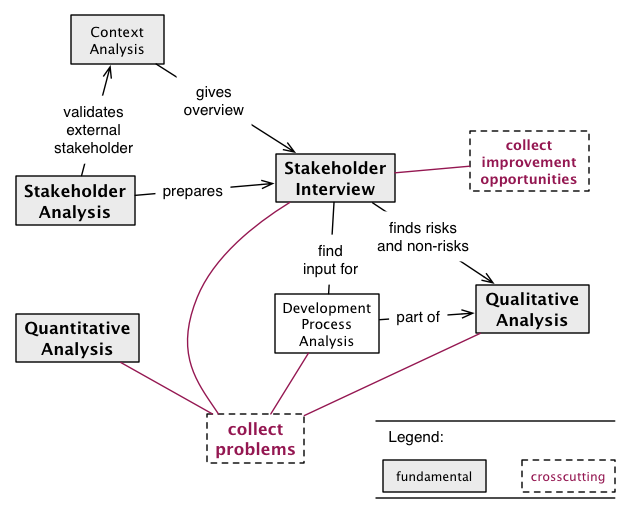
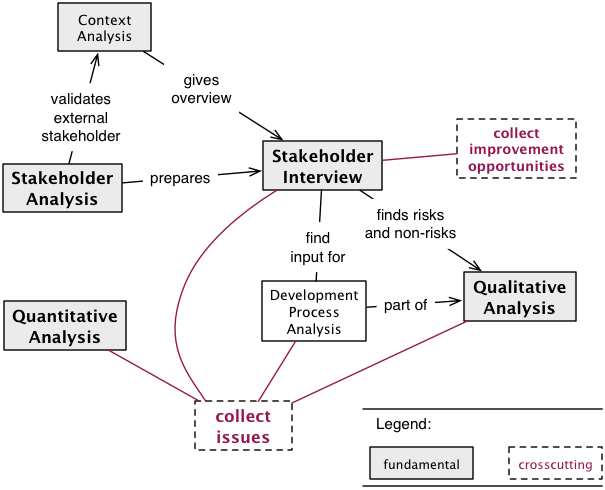
corrected analyze-pattern diagrams + imageMaps

diff --git a/src/main/asciidoc/patterns/analyze/analyze-patterns-conceptmap/analyze-patterns-conceptmap.html b/src/main/asciidoc/patterns/analyze/analyze-patterns-conceptmap/analyze-patterns-conceptmap.html
@@ -1,20 +1,22 @@
 <map name="GraffleExport">
-	<area shape=rect coords="105,702,187,742" href="#Instrument-System">
-	<area shape=rect coords="209,603,311,642" href="#Infrastructure-Analysis">
-	<area shape=rect coords="306,332,411,391" href="#Development-Process-Analysis">
-	<area shape=rect coords="40,815,138,864" href="#Static-Code-Analysis">
-	<area shape=rect coords="371,702,461,751" href="#Software-Archeology">
-	<area shape=rect coords="462,38,566,77" href="#Questionnaire">
-	<area shape=rect coords="28,307,163,355" href="#Quantitative-Analysis">
-	<area shape=rect coords="662,345,769,393" href="#Requirements-Analysis">
-	<area shape=rect coords="342,154,461,202" href="#Stakeholder-Interview">
-	<area shape=rect coords="53,179,172,228" href="#Stakeholde-Analysis">
-	<area shape=rect coords="78,506,163,552" href="#Runtime-Analysis">
-	<area shape=rect coords="556,265,677,314" href="#Documentation-Analysis">
-	<area shape=rect coords="157,446,223,485" href="#Data-Analysis">
-	<area shape=rect coords="467,575,580,624" href="#Issue-Tracker-Analysis">
-	<area shape=rect coords="137,15,230,63" href="#Context-Analysis">
-	<area shape=rect coords="667,539,742,578" href="#ATAM">
-	<area shape=rect coords="497,399,609,447" href="#Qualitative-Analysis">
+	<area shape=rect coords="93,690,175,729" href="#Instrument-System">
+	<area shape=rect coords="196,590,299,629" href="#Infrastructure-Analysis">
+	<area shape=rect coords="294,319,398,379" href="#Development-Process-Analysis">
+	<area shape=rect coords="610,97,729,156" href="#Collect-Improvement-Opportunities">
+	<area shape=rect coords="305,508,402,557" href="#Collect-Issues">
+	<area shape=rect coords="28,803,125,852" href="#Static-Code-Analysis">
+	<area shape=rect coords="358,690,449,739" href="#Software-Archeology">
+	<area shape=rect coords="449,25,553,64" href="#Questionnaire">
+	<area shape=rect coords="15,294,150,343" href="#Quantitative-Analysis">
+	<area shape=rect coords="649,332,756,381" href="#Requirements-Analysis">
+	<area shape=rect coords="330,141,449,190" href="#Stakeholder-Interview">
+	<area shape=rect coords="40,167,159,215" href="#Stakeholde-Analysis">
+	<area shape=rect coords="66,494,150,539" href="#Runtime-Analysis">
+	<area shape=rect coords="543,253,664,301" href="#Documentation-Analysis">
+	<area shape=rect coords="145,433,210,472" href="#Data-Analysis">
+	<area shape=rect coords="455,562,567,611" href="#Issue-Tracker-Analysis">
+	<area shape=rect coords="124,2,218,51" href="#Context-Analysis">
+	<area shape=rect coords="654,526,729,565" href="#ATAM">
+	<area shape=rect coords="484,386,597,435" href="#Qualitative-Analysis">
 </map>
-<img border=0 src="file:///Users/gstarke/projects/aim42/aim42-guide/src/main/asciidoc/patterns/analyze/analyze-patterns-conceptmap/analyze-patterns-conceptmap.png" usemap="#GraffleExport">
+<img border=0 src="file:///Users/gernotstarke/projects/aim42/src/main/asciidoc/patterns/analyze/analyze-patterns-conceptmap/analyze-patterns-conceptmap.png" usemap="#GraffleExport">

diff --git a/src/main/asciidoc/patterns/analyze/analyze-patterns-overview/analyze-patterns-overview.html b/src/main/asciidoc/patterns/analyze/analyze-patterns-overview/analyze-patterns-overview.html
@@ -1,9 +1,11 @@
 <map name="GraffleExport">
-	<area shape=rect coords="274,293,378,353" href="#Development-Process-Analysis">
-	<area shape=rect coords="16,314,138,362" href="#Quantitative-Analysis">
-	<area shape=rect coords="275,154,394,202" href="#Stakeholder-Interview">
-	<area shape=rect coords="15,176,134,225" href="#Stakeholde-Analysis">
-	<area shape=rect coords="70,15,163,63" href="#Context-Analysis">
-	<area shape=rect coords="476,284,588,333" href="#Qualitative-Analysis">
+	<area shape=rect coords="262,281,366,340" href="#Development-Process-Analysis">
+	<area shape=rect coords="457,118,576,178" href="#Collect-Improvement-Opportunities">
+	<area shape=rect coords="194,401,291,450" href="#Collect-Issues">
+	<area shape=rect coords="3,301,126,350" href="#Quantitative-Analysis">
+	<area shape=rect coords="263,141,382,190" href="#Stakeholder-Interview">
+	<area shape=rect coords="3,164,122,212" href="#Stakeholder-Analysis">
+	<area shape=rect coords="58,2,151,51" href="#Context-Analysis">
+	<area shape=rect coords="463,272,576,321" href="#Qualitative-Analysis">
 </map>
-<img border=0 src="file:///Users/gstarke/projects/aim42/aim42-guide/src/main/asciidoc/patterns/analyze/analyze-patterns-overview/analyze-patterns-overview.png" usemap="#GraffleExport">
+<img border=0 src="file:///Users/gernotstarke/projects/aim42/src/main/asciidoc/patterns/analyze/analyze-patterns-overview/analyze-patterns-overview.png" usemap="#GraffleExport">
